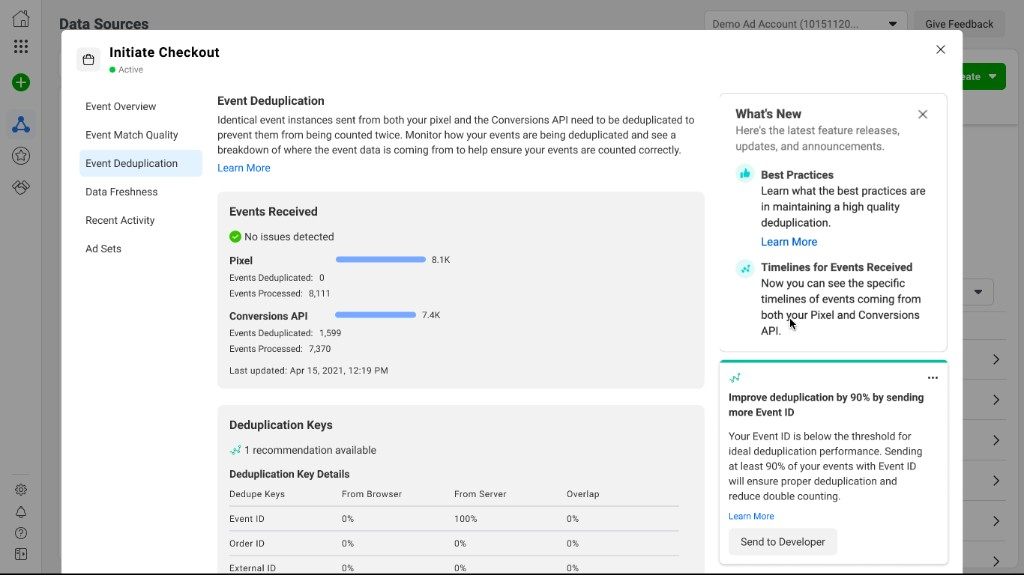
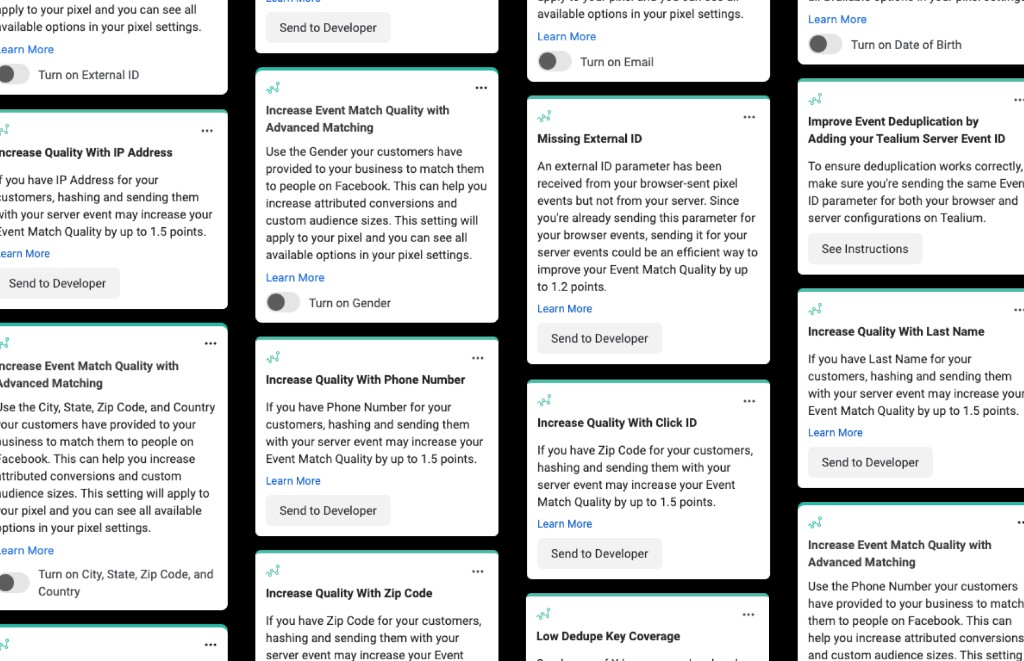
Add real project imagery for Eclipse RX, Journey Map, Nutrilyze, and Contextual Messaging.

diff --git a/content/case-studies.ts b/content/case-studies.ts
@@ -58,7 +58,7 @@ export const caseStudies: CaseStudy[] = [
     "Eclipse RX",
     "product-design",
     "PRODUCT DESIGN",
-    "/work/10.png",
+    "/work/eclipse-rx.png",
   ),
   study(
     "contextual-messaging",
@@ -93,7 +93,7 @@ export const caseStudies: CaseStudy[] = [
     "Journey Map",
     "strategy-research",
     "STRATEGY & RESEARCH",
-    "/work/07.png",
+    "/work/journey-map.png",
   ),
   study(
     "conversions-api",
@@ -107,7 +107,7 @@ export const caseStudies: CaseStudy[] = [
     "Nutrilyze",
     "product-design",
     "PRODUCT DESIGN",
-    "/work/12.png",
+    "/work/nutrilyze-cover.png",
   ),
   study(
     "event-setup-tool",